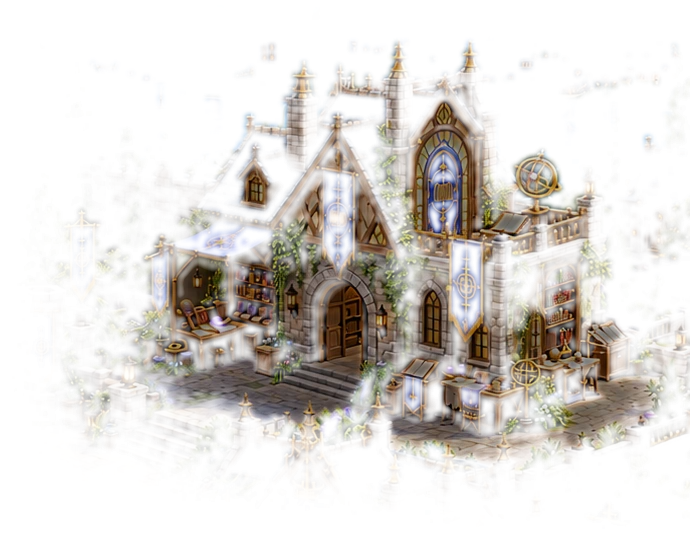
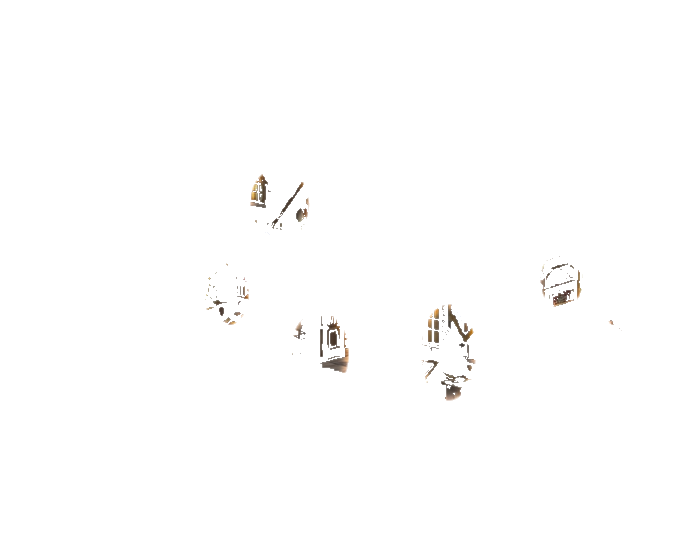
fix(town): repair registered day/night vacant artwork (v0.0.139)
* fix(town): generate registered vacant fixture artwork from canonical panorama

* ci: generate and publish vetted vacancy art on fix branch

* fix(town): limit vacancy alpha to actual modified fixture pixels

* fix(town): publish repaired day/night vacant painting layers

* test(town): render exact four-layer day/night previews for visual review

* ci: persist blended refuge art acceptance previews

* fix(town): publish repaired day/night vacant painting layers

* fix(town): remove forge and smoke artifacts with registered donor textures; restore Hall door boards

* fix(town): publish repaired day/night vacant painting layers

* fix(town): extinguish hearth without deleting forge architecture; replace Hall door with same-scene wood

* fix(town): publish repaired day/night vacant painting layers

* fix(town): extinguish low-saturation flame tips; sample actual Hall door wood

* fix(town): publish repaired day/night vacant painting layers

* fix(town): register repaired vacancy art and v0.0.139 in CanonicalTownView.razor

* fix(town): register repaired vacancy art and v0.0.139 in town-lighting.js

* fix(town): register repaired vacancy art and v0.0.139 in refuge-canonical-town.test.mjs

* fix(town): register repaired vacancy art and v0.0.139 in town-lighting.test.mjs

* fix(town): register repaired vacancy art and v0.0.139 in Directory.Build.props

* fix(town): register repaired vacancy art and v0.0.139 in README.md

---------

diff --git a/src/Wyrmforge.Presentation.Web/wwwroot/js/town-lighting.js b/src/Wyrmforge.Presentation.Web/wwwroot/js/town-lighting.js
@@ -36,7 +36,7 @@
     }
 
     function versionFrom(source) {
-        return source?.match(/[?&]v=([^&#]+)/)?.[1] ?? "132";
+        return source?.match(/[?&]v=([^&#]+)/)?.[1] ?? "139";
     }
 
     function assetUrl(path, version) {
@@ -89,7 +89,7 @@
         if (loadedDay || typeof Image === "undefined") return;
         loadedDay = true;
         const image = new Image();
-        image.src = assetUrl("day-active.webp", "132");
+        image.src = assetUrl("day-active.webp", "139");
     }
 
     function setMode(next) {

diff --git a/tools/art/repair_refuge_vacancy.py b/tools/art/repair_refuge_vacancy.py
@@ -1,0 +1,232 @@
+#!/usr/bin/env python3
+"""Rebuild the *runtime* Refuge vacant paintings from the registered panorama.
+
+The former patches came from four independently synthesized panoramas: doors,
+brickwork and people did not register with the shared base, and "vacant" flames,
+smoke and magic remained visible. Never replace the eight approved source PNGs.
+
+Instead, work on the exact day/night base pixels. Change only the in-world
+powered fixtures, make a sparse alpha plate of those changed pixels, and keep
+the building's geometry, scenery and entrances byte-for-byte registered.
+"""
+from __future__ import annotations
+
+import argparse
+from pathlib import Path
+
+import cv2
+import numpy as np
+from PIL import Image
+
+ROOT = Path(__file__).resolve().parents[2]
+ART = ROOT / "src/Wyrmforge.Presentation.Web/wwwroot/art/town"
+CROP = {
+    "ArcaneNexus": (0, 0, 618, 582),
+    "Blacksmith": (0, 353, 633, 941),
+    "Codex": (982, 0, 1672, 548),
+    "HallOfFame": (866, 333, 1672, 941),
+}
+
+
+def mask_ellipse(size, cx, cy, rx, ry, softness=4):
+    mask = np.zeros((size[1], size[0]), np.uint8)
+    cv2.ellipse(mask, (cx, cy), (rx, ry), 0, 0, 360, 255, -1, cv2.LINE_AA)
+    if softness:
+        mask = cv2.GaussianBlur(mask, (0, 0), softness)
+    return mask.astype(np.float32) / 255
+
+
+def mask_polygon(size, points, softness=3):
+    mask = np.zeros((size[1], size[0]), np.uint8)
+    cv2.fillPoly(mask, [np.array(points, np.int32)], 255)
+    if softness:
+        mask = cv2.GaussianBlur(mask, (0, 0), softness)
+    return mask.astype(np.float32) / 255
+
+
+def apply_masked(current, replacement, mask):
+    weight = mask[..., None]
+    return np.clip(current.astype(np.float32) * (1 - weight)
+                   + replacement.astype(np.float32) * weight, 0, 255).astype(np.uint8)
+
+
+def mute_luminescence(rgb, region, *, night, magic=False):
+    """Remove emitted light in the artwork (not a CSS dark layer).
+
+    All spatial data derives from the same source panorama. Preserve non-glowing
+    stone, carved metal, blue banners and wood even inside fixture envelopes.
+    """
+    hsv = cv2.cvtColor(rgb, cv2.COLOR_RGB2HSV).astype(np.float32)
+    hue, sat, val = hsv[..., 0], hsv[..., 1], hsv[..., 2]
+    if magic:
+        # Saturated violet/blue emissive glass and cyan cores, not golden metal.
+        colored = (hue >= 90) & (hue <= 164) & (sat > 53)
+        glow = colored.astype(np.float32) * region
+        hsv[..., 1] *= 1 - glow * .76
+        hsv[..., 2] *= 1 - glow * (.68 if night else .57)
+        # The white-hot center has low saturation but must also be powered down.
+        white_core = (val > 195) & (sat <= 68)
+        hsv[..., 2] *= 1 - white_core.astype(np.float32) * region * (.47 if night else .37)
+    else:
+        # Lit orange/yellow parts of windows, candles and forge light.
+        warm = ((hue < 27) | (hue > 175)) & (sat > 65) & (val > (85 if night else 135))
+        glow = warm.astype(np.float32) * region
+        hsv[..., 1] *= 1 - glow * .45
+        hsv[..., 2] *= 1 - glow * (.72 if night else .52)
+    modified = cv2.cvtColor(np.clip(hsv, 0, 255).astype(np.uint8), cv2.COLOR_HSV2RGB)
+    # HSV roundtrips change unrelated pixels by 1-3 levels; never include those
+    # in an alpha patch. Only the explicit painted fixture mask may change.
+    return apply_masked(rgb, modified, region)
+
+
+def paint(base, building, night):
+    width, height = base.shape[1], base.shape[0]
+    canvas = base.copy()
+    size = (width, height)
+
+    def light(cx, cy, rx, ry, *, magic=False):
+        nonlocal canvas
+        mask = mask_ellipse(size, cx, cy, rx, ry, 3)
+        canvas = mute_luminescence(canvas, mask, night=night, magic=magic)
+
+    def erase(points, radius=5, softness=2):
+        nonlocal canvas
+        # Content-aware repair of a particular fixture, then softly matte to
+        # original. The surrounding wall/sky is sampled from the SAME scene.
+        region = mask_polygon(size, points, 0)
+        solid = (region * 255).astype(np.uint8)
+        repaired = cv2.cvtColor(cv2.inpaint(cv2.cvtColor(canvas, cv2.COLOR_RGB2BGR),
+                                           solid, radius, cv2.INPAINT_TELEA), cv2.COLOR_BGR2RGB)
+        canvas = apply_masked(canvas, repaired, mask_polygon(size, points, softness))
+
+    def replace_from_neighbour(points, *, offset_x, darkness=1.0, softness=3):
+        nonlocal canvas
+        # Copy actual neighbouring texture at full pixel detail rather than
+        # content-aware blurring into an undifferentiated brown/grey patch.
+        donor = np.roll(base, -offset_x, axis=1)
+        if darkness != 1.0:
+            donor = np.clip(donor.astype(np.float32) * darkness, 0, 255).astype(np.uint8)
+        canvas = apply_masked(canvas, donor, mask_polygon(size, points, softness))
+
+    if building == "ArcaneNexus":
+        # Fixed illustrated steam must vanish while the Nexus is unoccupied.
+        # No empty-place smoke, no powered observatory or violet/blue portal.
+        replace_from_neighbour([(103, 51), (150, 51), (168, 110), (111, 115)], offset_x=-67, softness=5)
+        light(303, 125, 86, 72, magic=True)
+        light(432, 301, 44, 67, magic=True)
+        for entry in [(359, 295, 17, 27), (490, 286, 17, 27),
+                      (235, 364, 20, 18), (275, 233, 21, 40),
+                      (351, 235, 22, 38)]:
+            light(*entry, magic=True)
+        for entry in [(92, 232, 15, 23), (195, 348, 24, 28),
+                      (43, 270, 20, 28)]:
+            light(*entry)
+    elif building == "Blacksmith":
+        # Actual forged embers, not merely the bright halo around them.
+        # Repair the chimney plume from the roof behind the vacant workshop.
+        replace_from_neighbour([(109, 425), (163, 423), (175, 481), (112, 486)], offset_x=-70, softness=5)
+        # The fire is *inside* the forge cavity; retain brick arches and the anvil.
+        # Keep the illustrated brick opening and tools, but neutralise every
+        # emission pixel *inside* the hearth. Donor foliage/inpainting previously
+        # looked like a pasted hole and obscured the workshop entrance.
+        hearth_mask = mask_ellipse(size, 194, 674, 44, 40, 5)
+        hsv = cv2.cvtColor(canvas, cv2.COLOR_RGB2HSV).astype(np.float32)
+        warm = (hsv[..., 0] < 28) & (hsv[..., 1] > 72) & (hsv[..., 2] > 70)
+        core = hearth_mask * warm.astype(np.float32)
+        hsv[..., 1] *= 1 - core * .8
+        hsv[..., 2] *= 1 - core * .86
+        replacement = cv2.cvtColor(np.clip(hsv, 0, 255).astype(np.uint8),
+                                   cv2.COLOR_HSV2RGB)
+        canvas = apply_masked(canvas, replacement, hearth_mask)
+        # White flame tips are low-saturation: exclude those too, retaining the
+        # stone surround outside the cavity as painted in the canonical scene.
+        soot = mask_ellipse(size, 194, 682, 37, 29, 3)
+        charcoal = canvas.astype(np.float32)
+        charcoal[..., 0] *= 1 - soot * .72
+        charcoal[..., 1] *= 1 - soot * .74
+        charcoal[..., 2] *= 1 - soot * .71
+        canvas = np.clip(charcoal, 0, 255).astype(np.uint8)
+        for entry in [(186, 686, 38, 40), (298, 659, 20, 28),
+                      (394, 647, 18, 29), (453, 661, 18, 25),
+                      (54, 670, 23, 43), (324, 628, 24, 28)]:
+            light(*entry)
+    elif building == "Codex":
+        # Original wooden doors and masonry stay in registration: no extra
+        # generated doorway is pasted on top of the panorama.
+        for entry in [(1301, 353, 26, 39), (1430, 352, 24, 45),
+                      (1208, 294, 19, 28), (1261, 204, 26, 35),
+                      (1543, 280, 18, 25), (1607, 304, 18, 24)]:
+            light(*entry)
+    elif building == "HallOfFame":
+        # A vacant Hall has shut, unilluminated doors. No open illuminated
+        # portal or separately regenerated warped stone arch is blended in.
+        for entry in [(1291, 662, 35, 60), (1253, 557, 22, 36),
+                      (1335, 557, 21, 37), (1479, 559, 24, 44),
+                      (1588, 700, 22, 43), (1130, 646, 19, 32)]:
+            light(*entry)
+        # The hallucinated black silhouette drawn across the wooden Hall door
+        # is repaired from the neighbouring door texture only for the VACANT
+        # variant. No human silhouettes should be baked into an empty Hall.
+        # Borrow existing carved door timber from the Hall's own right-hand
+        # entrance, instead of hallucinating a blurred replacement. The tall
+        # central wooden door remains inside its original masonry arch.
+        timber = cv2.resize(base[698:785, 1518:1558], (37, 77),
+                            interpolation=cv2.INTER_LINEAR)
+        repaired = canvas.copy()
+        repaired[631:708, 1297:1334] = timber
+        canvas = apply_masked(canvas, repaired,
+                              mask_polygon(size, [(1305, 635), (1323, 636),
+                                                  (1329, 701), (1299, 700)], 3))
+    else:
+        raise ValueError(building)
+
+    # Sparse feathered layer derived from pixel differences on ONE registered
+    # base. No panorama stitching, external source backgrounds, night rectangles,
+    # black CSS overlays or shifting entrances.
+    changed = np.max(np.abs(canvas.astype(np.int16) - base.astype(np.int16)), axis=2)
+    alpha = np.clip((changed.astype(np.float32) - 2) * 38, 0, 255).astype(np.uint8)
+    # Avoid one-pixel holes while retaining unchanged backdrop as transparent.
+    alpha = cv2.GaussianBlur(alpha, (3, 3), .7)
+    alpha[changed < 3] = 0
+    x0, y0, x1, y1 = CROP[building]
+    patch = np.dstack([canvas[y0:y1, x0:x1], alpha[y0:y1, x0:x1]])
+    return Image.fromarray(patch, "RGBA")
+
+
+def main():
+    parser = argparse.ArgumentParser()
+    parser.add_argument("--verify", action="store_true")
+    args = parser.parse_args()
+    previews = ROOT / "docs/art/previews"
+    previews.mkdir(parents=True, exist_ok=True)
+    for mode in ("day", "night"):
+        with Image.open(ART / f"{mode}-active.webp") as opened:
+            src = np.array(opened.convert("RGB"))
+        visual = Image.fromarray(src, "RGB").convert("RGBA")
+        assert src.shape == (941, 1672, 3)
+        for building, (x0, y0, x1, y1) in CROP.items():
+            path = ART / (f"day-vacant-{building}.webp" if mode == "day"
+                          else f"night-vacant-{building}.png")
+            if not args.verify:
+                patch = paint(src, building, mode == "night")
+                if mode == "day":
+                    patch.save(path, format="WEBP", lossless=True, method=6)
+                else:
+                    patch.save(path, format="PNG", optimize=True)
+            with Image.open(path) as output:
+                assert output.size == (x1 - x0, y1 - y0), path
+                assert output.mode == "RGBA", path
+                alpha = np.array(output.getchannel("A"))
+                assert alpha.max() == 255 and np.count_nonzero(alpha) > 500, path
+                assert np.count_nonzero(alpha) < .37 * alpha.size, f"Too much of {building} edited"
+            print(f"{mode} {building}: registered sparse vacancy plate OK")
+            with Image.open(path) as raw_layer:
+                visual.alpha_composite(raw_layer.convert("RGBA"), dest=(x0, y0))
+        if not args.verify:
+            visual.convert("RGB").save(previews / f"refuge-{mode}-all-vacant.webp",
+                                       format="WEBP", quality=94, method=6)
+
+
+
+if __name__ == "__main__":
+    main()

diff --git a/README.md b/README.md
@@ -1,5 +1,12 @@
 # Wyrmforge
 
+## Prototype 0.0.139 — Repair vacant Refuge artwork
+
+- Replace independently regenerated vacancy patches with pixel-registered corrections of the current day/night panorama. Each locked building retains its exact geometry and working interaction while its powered fixtures are dimmed, chimney plumes are removed, and the Hall entrance is repaired from same-scene wood.
+- No modifications to the eight owner-approved canonical source building PNGs. Shared environment and the World Gate remain unchanged. Reproducible art generation and visual proof in `tools/art/repair_refuge_vacancy.py` and `docs/art/previews/refuge-{day,night}-all-vacant.webp`.
+- Full real-device iPhone Safari acceptance remains separate from GitHub CI.
+
+
 **Canonical product documentation:** [docs/canon/](docs/canon/README.md). Intended gameplay, art, audio, UX, modes and engineering rules each have one current topic home. The prototype changelog below is historical delivery evidence, not a second design specification.
 
 ## Prototype 0.0.139 — Faster first launch and stable cache reuse
